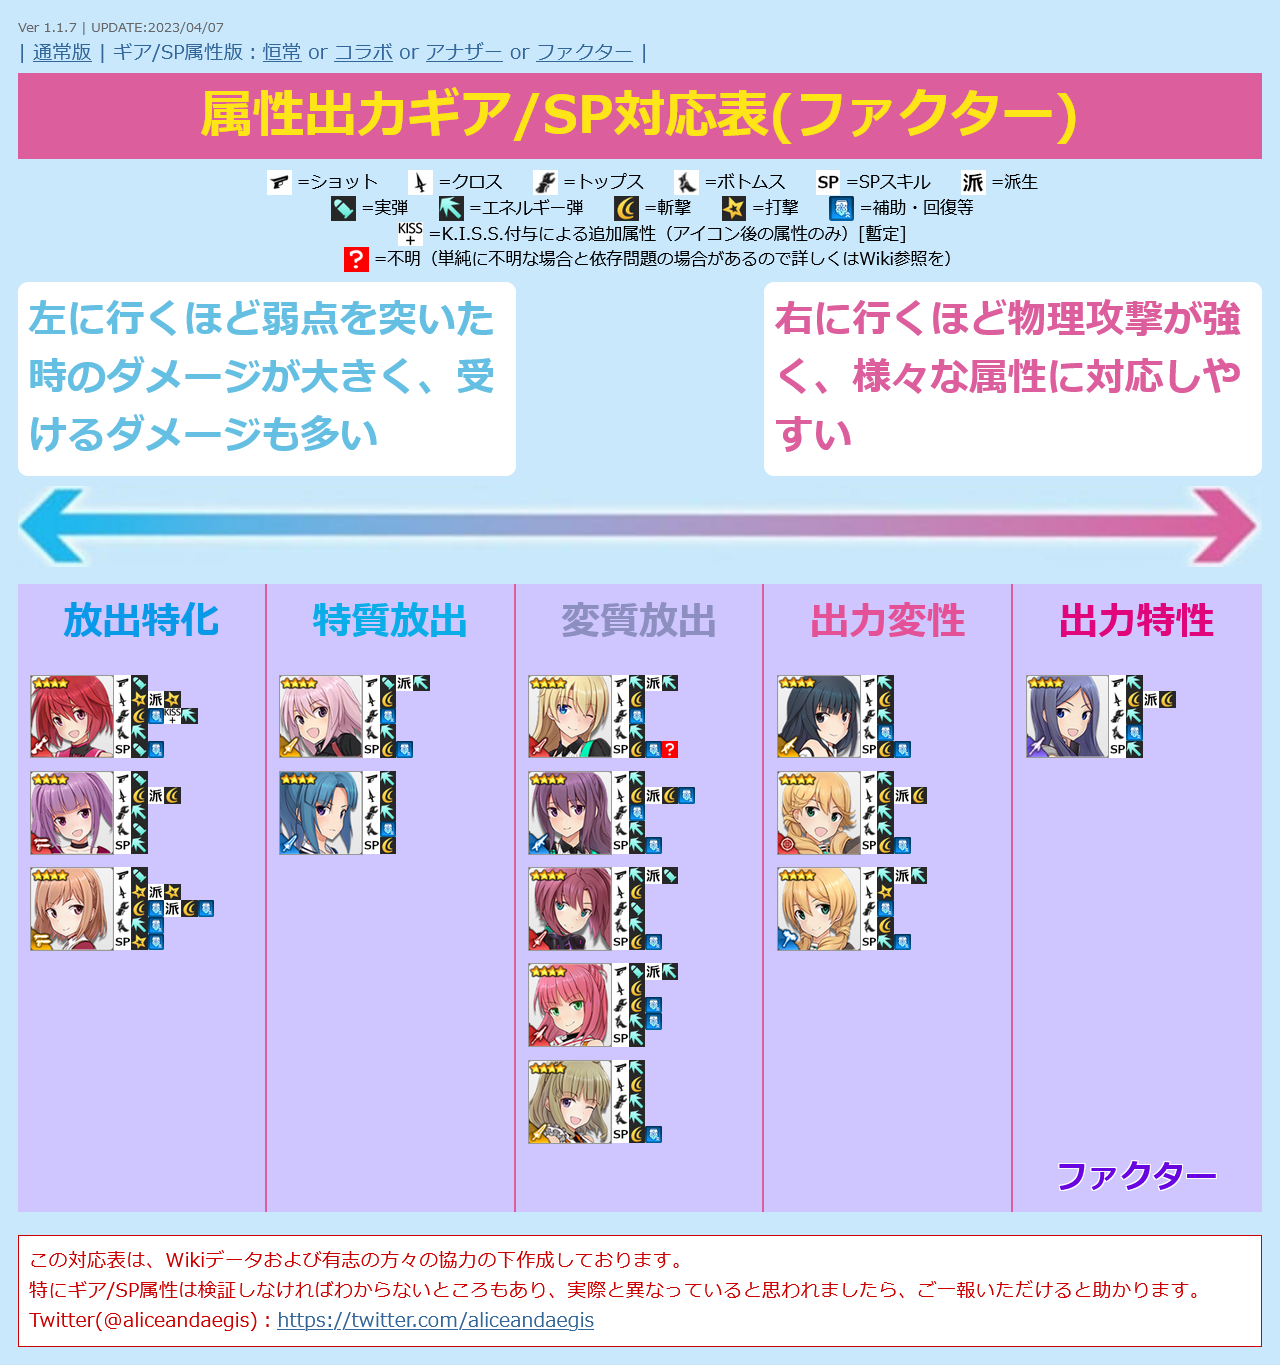
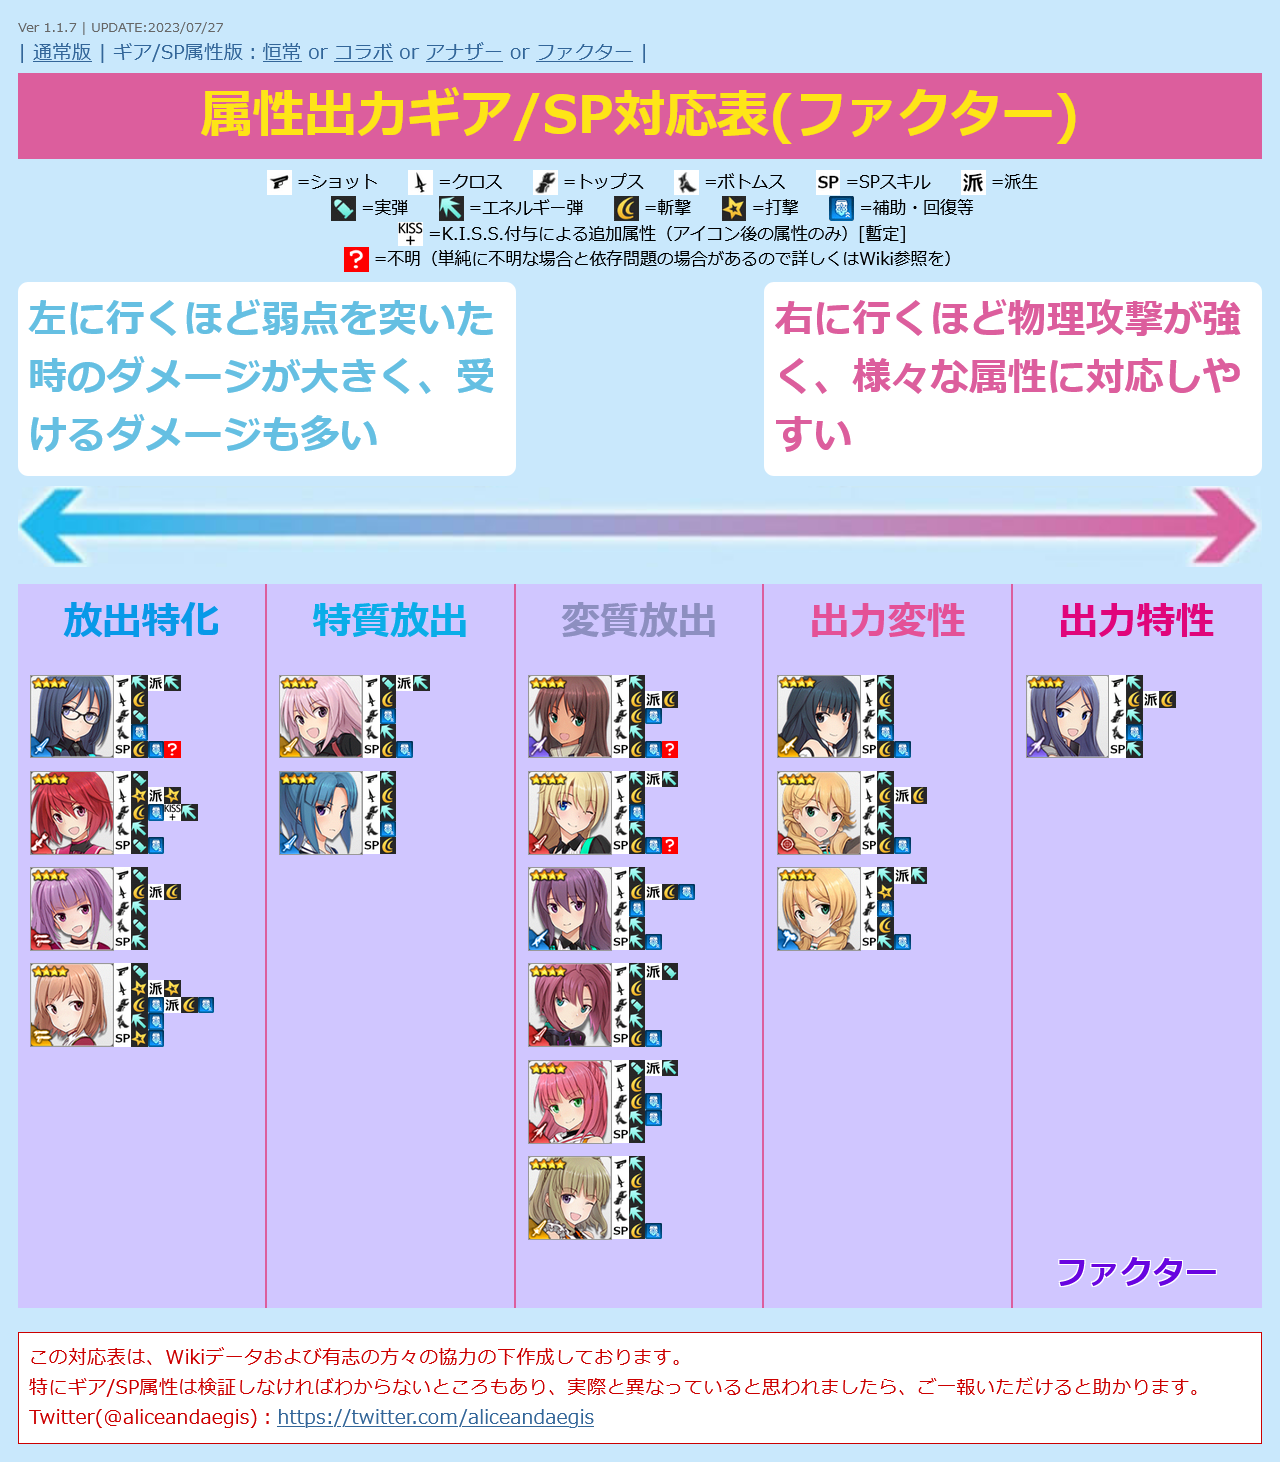
UPDATE charadata
・ファクター 兼志谷 シタラ / ブレイブを追加
・ファクター 百科 文嘉 / ブレイブを追加

diff --git a/alice.html b/alice.html
@@ -12,7 +12,7 @@
   <script>
 
 /* 更新情報 必要に応じて書き換えてください */
-  var version = "Ver 1.1.7 | UPDATE:2023/07/13";
+  var version = "Ver 1.1.7 | UPDATE:2023/07/27";
 
 
 /*
@@ -122,6 +122,20 @@
       "category": "10"
     },
     {
+      "id": "2",
+      "type": "3",
+      "src": "factor-shitara.png",
+      "name": "兼志谷 シタラ / ブレイブ",
+      "equip1": "2",
+      "equip2": "3/3",
+      "equip3": "35",
+      "equip4": "2",
+      "sp": "35?",
+      "attr": "2",
+      "link": "https://wikiwiki.jp/alicegear/%E5%85%BC%E5%BF%97%E8%B0%B7%E3%82%B7%E3%82%BF%E3%83%A9/%E3%83%96%E3%83%AC%E3%82%A4%E3%83%96",
+      "category": "11"
+    },
+    {
       "id": "3",
       "type": "5",
       "src": "normal-fumika.png",
@@ -148,6 +162,20 @@
       "attr": "4",
       "link": "https://wikiwiki.jp/alicegear/%E7%99%BE%E7%A7%91%E6%96%87%E5%98%89%E6%99%BA%E5%B0%86",
       "category": "10"
+    },
+    {
+      "id": "3",
+      "type": "1",
+      "src": "factor-fumika.png",
+      "name": "百科 文嘉 / ブレイブ",
+      "equip1": "2/2",
+      "equip2": "3",
+      "equip3": "1",
+      "equip4": "5",
+      "sp": "35?",
+      "attr": "4",
+      "link": "https://wikiwiki.jp/alicegear/%E7%99%BE%E7%A7%91%E6%96%87%E5%98%89/%E3%83%96%E3%83%AC%E3%82%A4%E3%83%96",
+      "category": "11"
     },
     {
       "id": "4",
